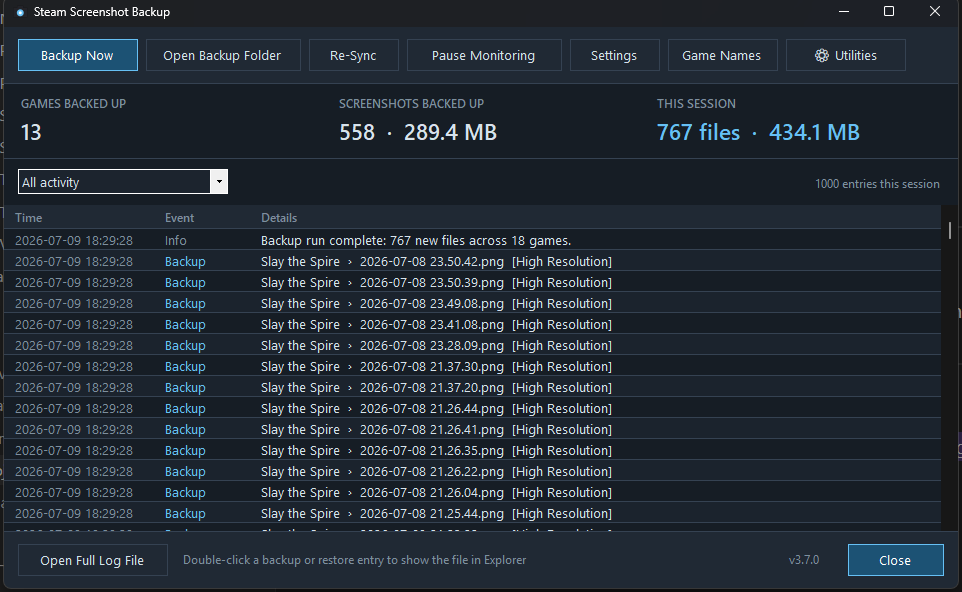
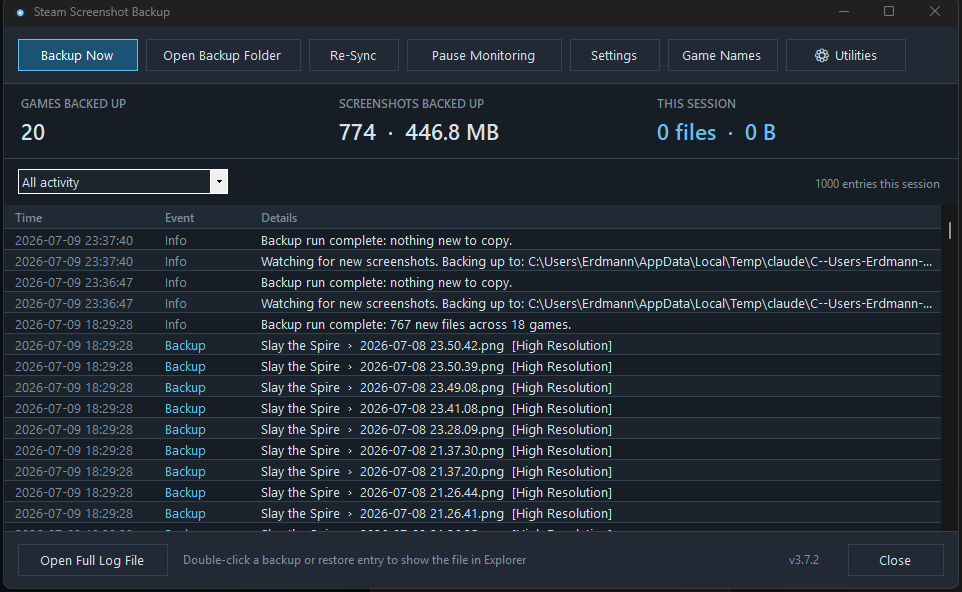
v3.7.2: fix MainWindow's Close button using primary/accent styling
Close was passed primary: true, making it visually match Backup Now's
accent-blue treatment. Every other window's Close/Cancel button (Settings,
Granular Deletion, Preview, Game Names) uses the plain secondary style,
reserving the accent look for the one actual primary action in that window.
Regenerated docs/img/main-window.png to reflect the corrected styling.

diff --git a/app/MainWindow.cs b/app/MainWindow.cs
@@ -142,7 +142,7 @@ namespace SteamScreenshotBackup
             };
             _bottom.Controls.Add(hint);
 
-            var close = MakeButton("Close", 96, primary: true);
+            var close = MakeButton("Close", 96);
             close.Anchor = AnchorStyles.Top | AnchorStyles.Right;
             close.Location = new Point(_bottom.Width - close.Width - 14, 12);
             close.Click += (s, e) => Close();